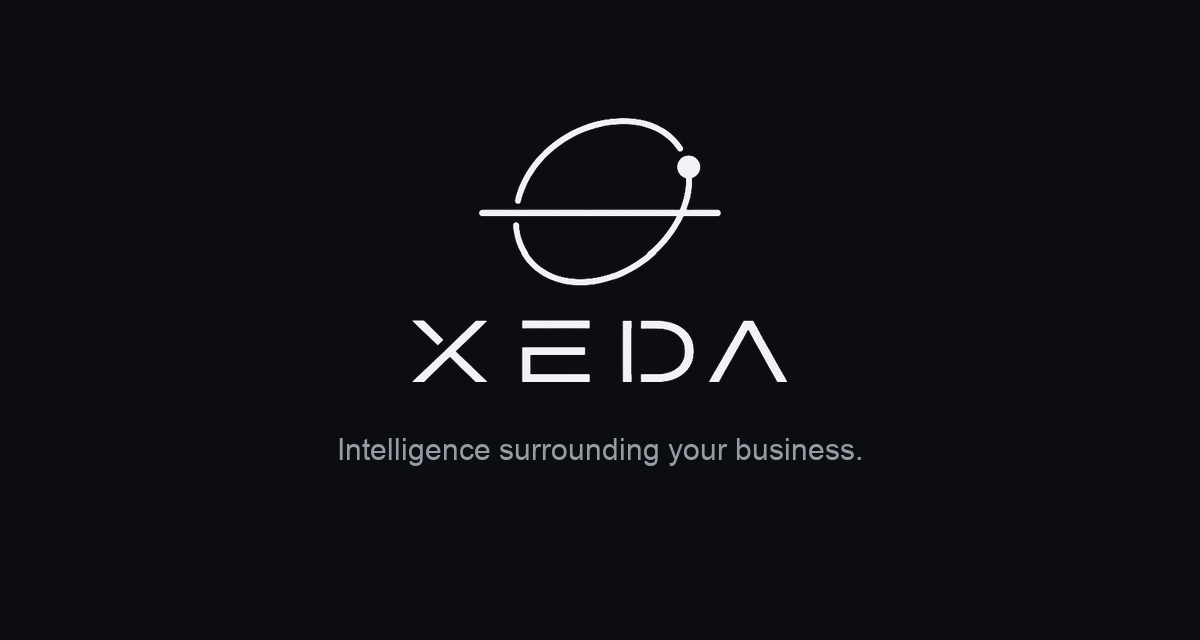
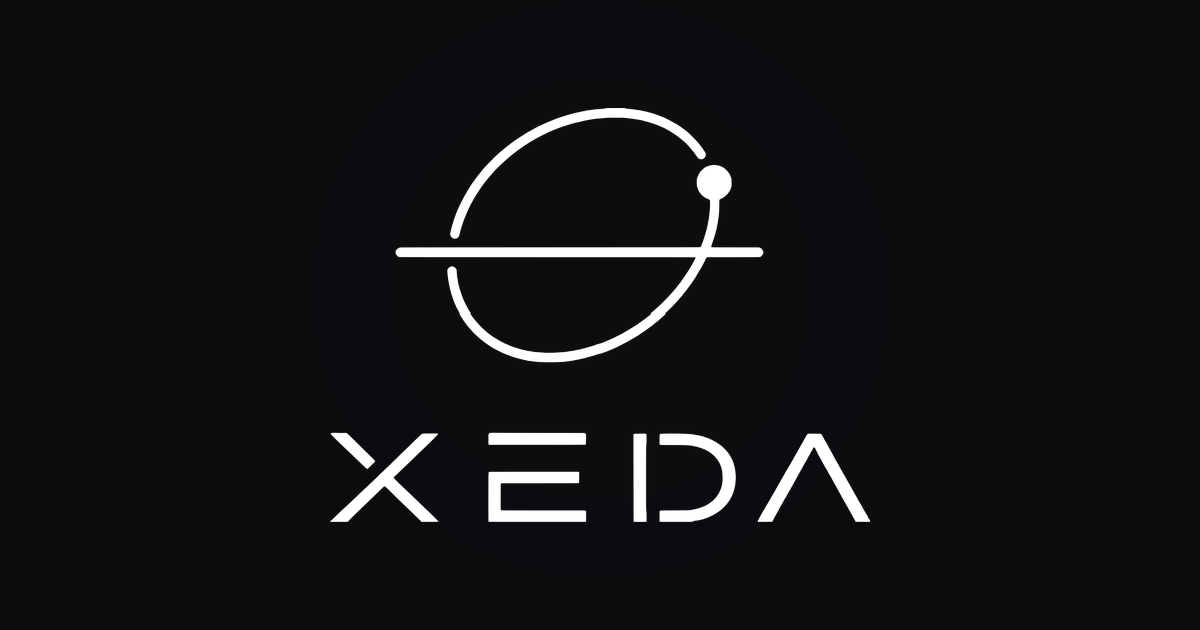
fix(seo): catchy link-share copy + thumbnail-safe OG image (#53)
* fix(seo): make link-share preview catchy + thumbnail-safe OG image

The WhatsApp/social card was underperforming on two fronts:

1. Copy was descriptive, not compelling. og:title/description and their
   twitter counterparts are rewritten to curiosity-driven German copy
   (audience is German-speaking businesses), with og:locale de_DE +
   en_US alternate. SEO <title>/meta description stay as-is.

2. og-image looked low-quality *in the share*, not at source. Chat apps
   (WhatsApp) crop the 1200x640 landscape banner to a small centre
   square and downscale hard, turning the fine baked-in tagline to mush.
   Rebuilt at 1200x630 from the crisp 2048px brand lockup: mark + XEDA
   only (no fine print), enlarged and centred inside the centre-square
   safe zone so it stays legible at thumbnail size. Tagline moves to the
   description text where it belongs. Added og:image:width/height/alt and
   a ?v=2 cache-bust so scrapers refetch.

* copy: swap share headline to the 20-hours benefit hook

Concrete, benefit-led question that makes the reader picture their own
team — stronger for a conservative DACH B2B audience than the abstract
line, and consistent with the Steuerkanzlei landing message.

---------

diff --git a/index.html b/index.html
@@ -20,18 +20,24 @@
     <!-- Open Graph / Facebook -->
     <meta property="og:type" content="website" />
     <meta property="og:url" content="https://xeda.ai/" />
-    <meta property="og:title" content="xeda.ai — AI integration & automation for German-speaking businesses" />
-    <meta property="og:description" content="We integrate AI into your workflows and automate the repetitive work, across the DACH region. We build it and run it. Start with a free AI audit." />
-    <meta property="og:image" content="https://xeda.ai/og-image.png" />
-    <meta property="og:locale" content="en_US" />
+    <meta property="og:title" content="Was würde Ihr Team mit 20 Stunden mehr pro Woche schaffen?" />
+    <meta property="og:description" content="xeda automatisiert die wiederkehrende Arbeit — Belege lesen, Daten erfassen, Nachfassen — eingebettet in Ihre Tools, gebaut und betrieben im DACH-Raum. Ein kostenloses KI-Audit zeigt Ihnen, wo." />
+    <meta property="og:image" content="https://xeda.ai/og-image.png?v=2" />
+    <meta property="og:image:width" content="1200" />
+    <meta property="og:image:height" content="630" />
+    <meta property="og:image:type" content="image/png" />
+    <meta property="og:image:alt" content="XEDA — KI-Integration & Automatisierung für den DACH-Raum" />
+    <meta property="og:locale" content="de_DE" />
+    <meta property="og:locale:alternate" content="en_US" />
     <meta property="og:site_name" content="xeda.ai" />
 
     <!-- Twitter -->
     <meta name="twitter:card" content="summary_large_image" />
     <meta name="twitter:url" content="https://xeda.ai/" />
-    <meta name="twitter:title" content="xeda.ai — AI integration & automation for German-speaking businesses" />
-    <meta name="twitter:description" content="We integrate AI and automate the repetitive work across the DACH region. Build it, run it. Start with a free AI audit." />
-    <meta name="twitter:image" content="https://xeda.ai/og-image.png" />
+    <meta name="twitter:title" content="Was würde Ihr Team mit 20 Stunden mehr pro Woche schaffen?" />
+    <meta name="twitter:description" content="xeda automatisiert die wiederkehrende Arbeit und bettet KI in Ihre Tools ein — gebaut und betrieben im DACH-Raum. Ein kostenloses KI-Audit zeigt, wo Ihre Stunden stecken." />
+    <meta name="twitter:image" content="https://xeda.ai/og-image.png?v=2" />
+    <meta name="twitter:image:alt" content="XEDA — KI-Integration & Automatisierung für den DACH-Raum" />
 
     <!-- Structured Data - Organization -->
     <script type="application/ld+json">
